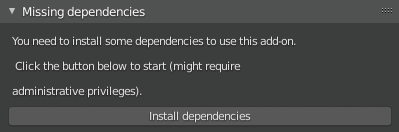
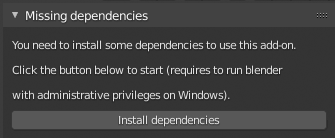
Improved dependency installation (closes #2)

diff --git a/range_scanner/ui/user_interface.py b/range_scanner/ui/user_interface.py
@@ -16,6 +16,7 @@ bl_info = {
 
 import bpy
 from bpy import context
+import sys
 
 from bpy.props import (StringProperty,
                        BoolProperty,
@@ -88,18 +89,6 @@ import bpy
 import subprocess
 from collections import namedtuple
 
-Dependency = namedtuple("Dependency", ["module", "package", "name"])
-
-# Declare all modules that this add-on depends on. The package and (global) name can be set to None,
-# if they are equal to the module name. See import_module and ensure_and_import_module for the
-# explanation of the arguments.
-dependencies = (
-    Dependency(module="laspy", package=None, name=None), 
-    Dependency(module="h5py", package=None, name=None),
-    Dependency(module="pascal_voc_writer", package=None, name=None),
-    Dependency(module="png", package="pypng", name=None),
-)
-
 dependencies_installed = False
 
 def import_module(module_name, global_name=None):
@@ -141,7 +130,7 @@ def install_pip():
         os.environ.pop("PIP_REQ_TRACKER", None)
 
 
-def install_and_import_module(module_name, package_name=None, global_name=None):
+def install_and_import_module(module, importName):
     """
     Installs the package through pip and attempts to import the installed module.
     :param module_name: Module to import.
@@ -152,12 +141,6 @@ def install_and_import_module(module_name, package_name=None, global_name=None):
        the global_name under which the module can be accessed.
     :raises: subprocess.CalledProcessError and ImportError
     """
-
-    if package_name is None:
-        package_name = module_name
-
-    if global_name is None:
-        global_name = module_name
 
     # Blender disables the loading of user site-packages by default. However, pip will still check them to determine
     # if a dependency is already installed. This can cause problems if the packages is installed in the user
@@ -171,15 +154,17 @@ def install_and_import_module(module_name, package_name=None, global_name=None):
     os.environ["PYTHONNOUSERSITE"] = "1"
 
     try:
+        print(f"Installing {module}")
+
         # Try to install the package. This may fail with subprocess.CalledProcessError
-        subprocess.run([bpy.app.binary_path_python, "-m", "pip", "install", package_name], check=True)
+        subprocess.run([sys.executable, "-m", "pip", "install", module], check=True)
     finally:
         # Always restore the original environment variables
         os.environ.clear()
         os.environ.update(environ_orig)
 
     # The installation succeeded, attempt to import the module again
-    import_module(module_name, global_name)
+    import_module(importName)
 
 
 
@@ -195,10 +180,33 @@ class WM_OT_INSTALL_DEPENDENCIES(Operator):
     def execute(self, context):
         try:
             install_pip()
-            for dependency in dependencies:
-                install_and_import_module(module_name=dependency.module,
-                                          package_name=dependency.package,
-                                          global_name=dependency.name)
+
+            requirementsFile = open('requirements.txt', 'r')
+            requirements = requirementsFile.readlines()
+ 
+            importName = None
+
+            # Strips the newline character
+            for requirement in requirements:
+                stripped = requirement.strip()
+
+                if stripped.startswith("#/"):
+                    importName = stripped.split("#/")[1]
+                    continue
+
+                if stripped.startswith("#") or not stripped:
+                    continue
+
+                name, version = stripped.split("==")
+
+                if importName is None:
+                    importName = name
+
+                print(f"Checking {name}: version {version}, import {importName}")
+
+                install_and_import_module(module=stripped, importName=importName)
+
+                importName = None
         except (subprocess.CalledProcessError, ImportError) as err:
             print("ERROR: %s" % str(err))
             self.report({"ERROR"}, str(err))
@@ -220,8 +228,8 @@ class EXAMPLE_PT_DEPENDENCIES_PANEL(MAIN_PANEL, Panel):
         layout = self.layout
 
         lines = [f"You need to install some dependencies to use this add-on.",
-                 f" Click the button below to start (might require ",
-                 f"administrative privileges)."]
+                 f"Click the button below to start (requires to run blender",
+                 f"with administrative privileges on Windows)."]
 
         for line in lines:
             layout.label(text=line)
@@ -2338,15 +2346,40 @@ def register():
     missingDependency = None
 
     try:
-        for dependency in dependencies:
-            missingDependency = dependency
-            import_module(module_name=dependency.module, global_name=dependency.name)
+        requirementsFile = open('requirements.txt', 'r')
+        requirements = requirementsFile.readlines()
+
+        importName = None
+
+        # Strips the newline character
+        for requirement in requirements:
+            stripped = requirement.strip()
+
+            if stripped.startswith("#/"):
+                importName = stripped.split("#/")[1]
+                continue
+
+            if stripped.startswith("#") or not stripped:
+                continue
+
+            name, version = stripped.split("==")
+
+            if importName is None:
+                importName = name
+
+            print(f"Checking {name}: version {version}, import {importName}")
+
+            missingDependency = name
+            import_module(module_name=importName)
+
+            importName = None
+
         dependencies_installed = True
         missingDependency = None
 
         print("All dependencies found.")
     except ModuleNotFoundError:
-        print("WARNING: Missing dependency %s." % str(missingDependency.module))
+        print("ERROR: Missing dependency %s." % str(missingDependency))
         # Don't register other panels, operators etc.
         return
 

diff --git a/README.md b/README.md
@@ -92,16 +92,18 @@ After installing the add-on, you see the panel shown below to install the missin
 
 ### Manual installation
 
+Open a terminal (as admin on Windows) and navigate into `blainder-range-scanner`. Then run on of the following commands depending on your system.
+
 Windows
 ```
-"C:\Program Files\Blender Foundation\Blender 2.83\2.83\python\bin\python.exe" -m pip install laspy h5py pascal_voc_writer pypng pyyaml
+"C:\Program Files\Blender Foundation\Blender 2.93\2.93\python\bin\python.exe" -m pip install -r requirements.txt
 ```
 
-*WARNING*: Make sure that the packages are installed inside `C:\program files\blender foundation\blender 2.83\2.83\python\lib\site-packages`, not `C:\users\USER\appdata\roaming\python\python37\site-packages\` or Blender won't find them!
+*WARNING*: Make sure that the packages are installed inside `C:\program files\blender foundation\blender 2.93\2.93\python\lib\site-packages`, not `C:\users\USER\appdata\roaming\python\python39\site-packages\` or Blender won't find them!
 
 macOS
 ```
-/Applications/Blender.app/Contents/Resources/2.83/python/bin/python3.7m -m pip install laspy h5py pascal_voc_writer pypng pyyaml
+/Applications/Blender.app/Contents/Resources/2.93/python/bin/python3.9m -m pip install -r requirements.txt
 ```
 
 <br /><br />
